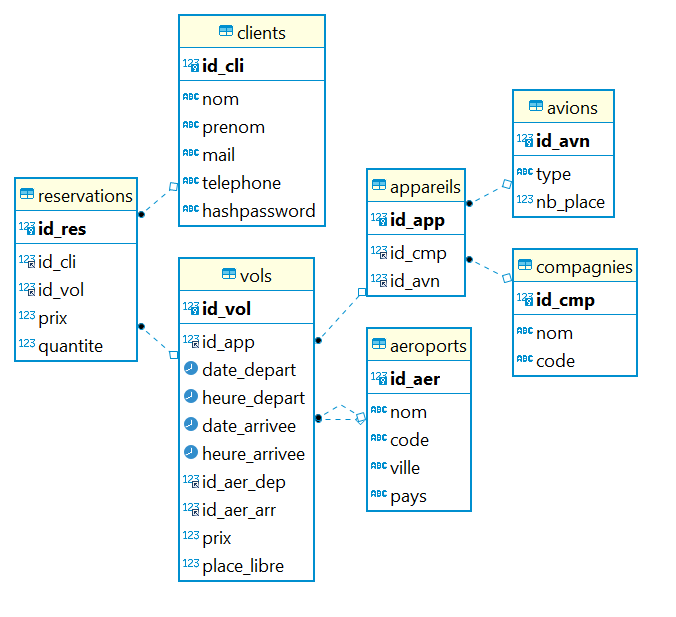
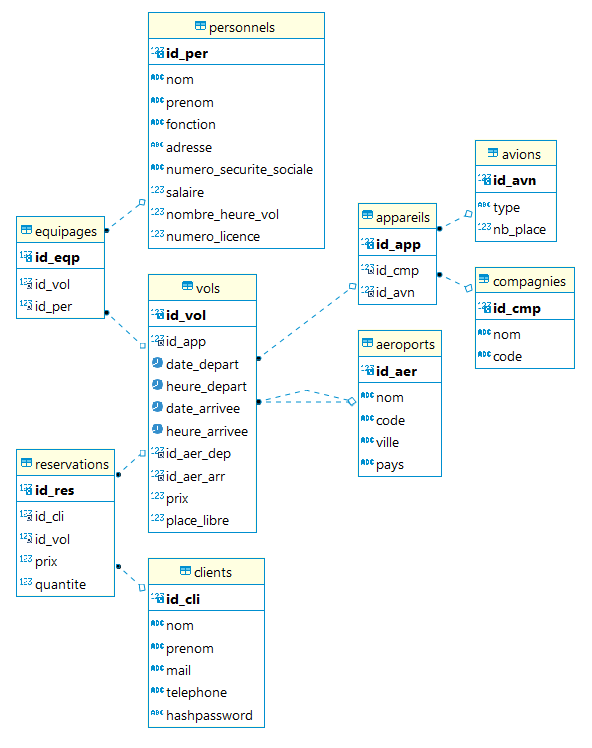
Modification data generation

Changed region(s): [[0.0, 0.0, 0.973, 0.9854]]

diff --git a/Backend/database_creation/data.js b/Backend/database_creation/data.js
@@ -308,22 +308,29 @@ for (var i = 0; i <= nbReservations; i++) {
   }
 }
 
-let fonctions = [
-  "Chef de bord",
-  "Pilote de ligne",
-  "Stewart",
-  "Hôtesse de l'air",
-];
+let fonctions = {
+  CDB: "Commandant de bord",
+  OPL: "Copilote",
+  OMN: "Officier Mécanicien Navigant",
+  CCP: "Chef de Cabine",
+  STW: "Steward",
+  HDA: "Hôtesse de l'air",
+};
 
 function createPersonnels(noms, prenoms, fonctions) {
   let nom = noms[parseInt(Math.random() * noms.length)],
     prenom = prenoms[parseInt(Math.random() * prenoms.length)],
-    fonction = fonctions[parseInt(Math.random() * fonctions.length)],
+    fonction = Object.values(fonctions)[
+      parseInt(Math.random() * Object.values(fonctions).length)
+    ],
     adresse = parseInt(Math.random() * 200) + " rue de l'arbre sec",
     numero_securite_sociale = parseInt(Math.random() * 9 * 10 ** 12 + 10 ** 12),
     salaire = 1200 + parseInt(randomG(4) * 2000),
     nombre_heure_vol = parseInt(randomG(4) * 200),
-    numero_licence = parseInt(Math.random() * 9 * 10 ** 5 + 10 ** 5);
+    numero_licence =
+      fonction === "Commandant de bord" || fonction === "Copilote"
+        ? parseInt(Math.random() * 9 * 10 ** 5 + 10 ** 5)
+        : null;
   return [
     nom,
     prenom,
@@ -342,20 +349,41 @@ for (var i = 0; i < nbPersonnels; i++) {
   personnels.push(createPersonnels(noms, prenoms, fonctions));
 }
 
-function createEquipages(nbPer, id_vol) {
-  let id_per = 100 + parseInt(Math.random() * nbPer);
+let equipages = [];
+
+// CDB: "Commandant de bord",
+// OPL: "Copilote",
+// OMN: "Officier Mécanicien Navigant",
+// CCP: "Chef de Cabine",
+// STW: "Steward",
+// HDA: "Hôtesse de l'air",
+
+let repartitions = {
+  CDB: 1,
+  OPL: 1,
+  OMN: 1,
+  CCP: 1,
+  STW: 1,
+  HDA: 1,
+};
+
+function createEquipages(pers, id_vol) {
+  let id_per = pers[parseInt(Math.random() * pers.length)];
   return [id_vol, id_per];
 }
 
-let equipages = [];
-
-for (var i = 0; i < nbVols; i++) {
-  for (var j = 0; j < fonctions.length; j++) {
-    // RECHERCHER ICI LES FONCTIONS
-    // METTRE 1 PILOTE 2A3 STEWARTS OU HOTESSE
-    equipages.push(createEquipages(personnels.length, 100 + i));
+Object.keys(fonctions).forEach((fonction, j) => {
+  let pers = personnels
+    .map((personnel, index) => {
+      return personnel[2] === fonctions[fonction] ? 100 + index : null;
+    })
+    .filter((value) => value !== null);
+  for (var i = 0; i < nbVols; i++) {
+    for (var k = 0; k < repartitions[fonction]; k++) {
+      equipages.push(createEquipages(pers, 100 + i));
+    }
   }
-}
+});
 
 module.exports = {
   liste_tables,
